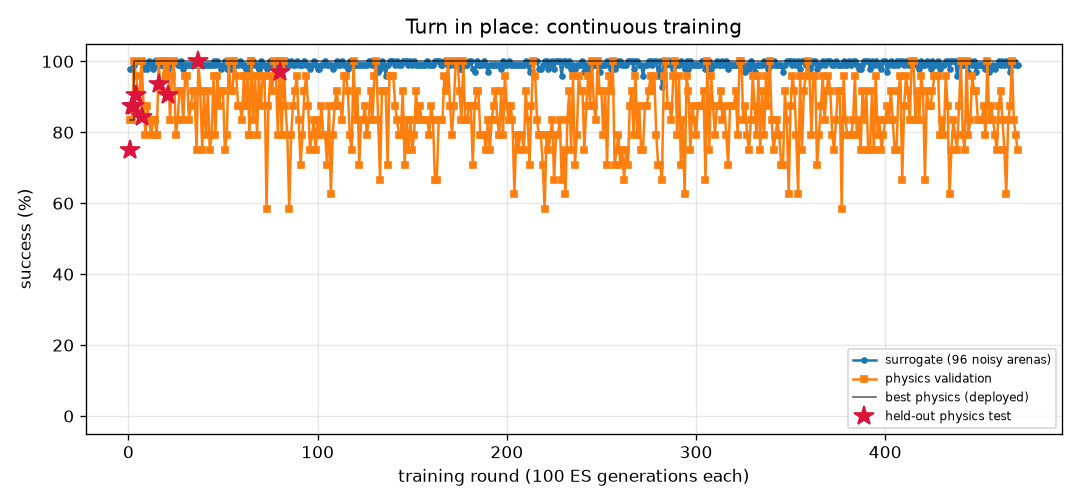
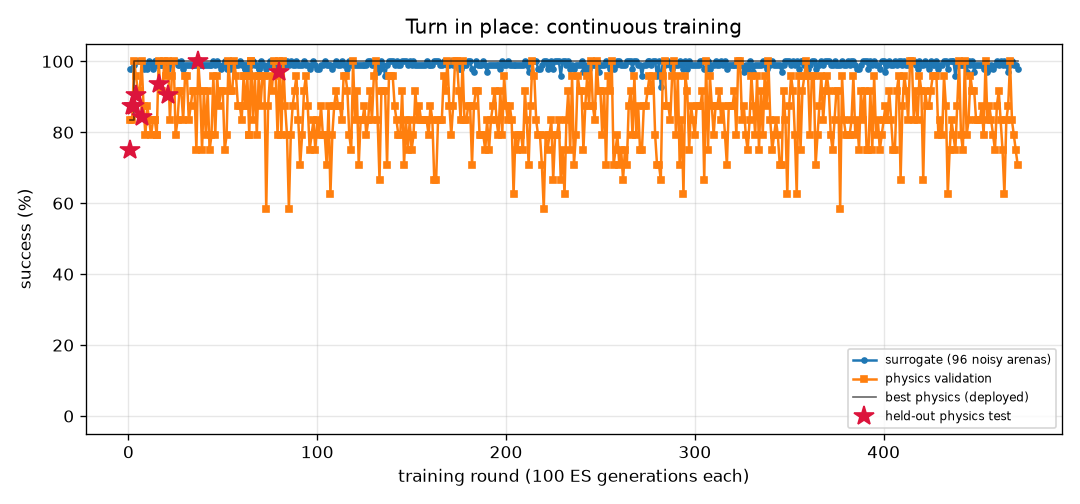
FlyLab: continuous training progress
- walk_forward: optimal, physics val 100% of 24, round 98
- turn: optimal, physics val 100% of 24, round 471
- goto: optimal, physics val 100% of 24, round 95
- odor_seek: optimal, physics val 100% of 24, round 94
- odor_avoid: optimal, physics val 100% of 24, round 501
- light_seek: optimal, physics val 100% of 24, round 283
- light_avoid: optimal, physics val 100% of 24, round 239

diff --git a/projects/09_flylab/training/odor_avoid/REPORT.md b/projects/09_flylab/training/odor_avoid/REPORT.md
@@ -1,14 +1,14 @@
 # Escape a bad smell (`odor_avoid`) — training report
 
-*Auto-generated by `train_brains.py`, last updated 2026-10-16T22:15:40.*
+*Auto-generated by `train_brains.py`, last updated 2026-10-17T10:02:42.*
 
 ![curve](curve.png)
 
 | | |
 |---|---|
-| rounds | 492 |
-| ES generations | 49200 |
-| physics runs | 9114 |
+| rounds | 501 |
+| ES generations | 50100 |
+| physics runs | 9330 |
 | status | **optimal** |
 | best brain | round 373: physics validation **100%** on 24 arenas, surrogate 97% |
 | held-out physics test | **97%** on 32 unseen arenas (95% CI 84%-99%) (errors: [62.0, 57.4, 62.6, 61.9, 59.0, 61.6, 56.5, 60.7, 31.7, 60.9, 63.1, 57.1, 61.1, 62.1, 61.5, 60.2, 62.2, 55.2, 62.1, 54.2, 61.3, 62.0, 58.0, 61.9, 59.8, 56.5, 56.3, 56.4, 56.3, 57.7, 61.9, 32.4]) |
@@ -17,15 +17,6 @@ Physics error per arena: mm gained away from source (> 6 without first approachi
 
 | round | level | gens | sigma | surrogate | physics val | val errors | test | note |
 |---:|---:|---:|---:|---:|---:|---|---:|---|
-| 453 | 3 | 45300 | 0.028 | 93% | 96% | [63.4, 60.4, 58.4, 57.9, 60.6, 62.2, 61.4, 58.0, 60.4, 57.7, 58.7, 59.7, 50.8, 57.6, 40.3, 62.1, 60.5, 61.8, 54.8, 57.5, 59.9, 59.0, 57.6, 61.7] |  | restart from best |
-| 454 | 3 | 45400 | 0.026 | 97% | 96% | [64.0, 61.2, 56.3, 58.7, 62.2, 62.7, 62.9, 60.5, 60.9, 61.9, 62.2, 62.1, 55.0, 56.3, 38.5, 62.0, 62.3, 61.9, 56.0, 57.5, 62.5, 62.2, 56.7, 60.7] |  |  |
-| 455 | 3 | 45500 | 0.026 | 98% | 96% | [62.9, 60.6, 56.2, 58.8, 61.8, 61.1, 61.4, 32.2, 60.8, 45.0, 61.7, 62.2, 55.0, 55.8, 46.2, 62.2, 62.1, 39.5, 55.1, 60.4, 61.8, 36.3, 58.5, 45.2] |  |  |
-| 456 | 3 | 45600 | 0.025 | 96% | 100% | [62.2, 60.1, 56.7, 60.6, 62.0, 60.1, 61.6, 54.4, 62.0, 37.0, 61.1, 61.9, 55.0, 56.5, 50.4, 62.5, 62.1, 62.2, 55.4, 56.8, 62.3, 62.2, 60.7, 61.8] |  |  |
-| 457 | 3 | 45700 | 0.026 | 93% | 100% | [60.8, 59.3, 52.1, 58.4, 60.1, 60.8, 61.0, 59.1, 61.4, 59.3, 55.1, 59.1, 24.3, 49.3, 40.9, 56.9, 37.9, 55.6, 44.1, 59.1, 54.9, 60.5, 58.7, 59.2] |  | restart from best |
-| 458 | 3 | 45800 | 0.026 | 95% | 100% | [61.6, 60.3, 56.8, 60.7, 61.6, 60.4, 60.5, 59.8, 61.6, 52.8, 60.5, 61.3, 54.6, 57.6, 50.6, 61.5, 61.6, 61.7, 54.9, 60.0, 61.9, 61.5, 56.9, 61.9] |  |  |
-| 459 | 3 | 45900 | 0.027 | 97% | 100% | [63.2, 61.4, 57.9, 61.7, 61.6, 60.8, 62.0, 53.1, 60.7, 61.1, 62.4, 62.1, 54.8, 55.8, 42.5, 61.8, 62.2, 62.5, 55.1, 60.1, 62.0, 60.0, 61.5, 59.5] |  |  |
-| 460 | 3 | 46000 | 0.026 | 96% | 100% | [62.5, 61.1, 56.2, 57.1, 62.4, 62.2, 61.5, 54.2, 62.2, 52.5, 57.8, 61.4, 51.1, 55.0, 39.3, 60.9, 62.2, 61.5, 54.7, 59.6, 61.8, 62.1, 61.4, 56.7] |  |  |
-| 461 | 3 | 46100 | 0.026 | 95% | 96% | [62.2, 60.1, 56.0, 61.3, 62.5, 61.7, 61.8, 60.8, 62.2, 61.7, 61.9, 62.5, 55.0, 56.0, 48.9, 63.0, 62.5, 62.8, 55.5, 56.6, 62.5, 61.6, 60.4, 62.5] |  | restart from best |
 | 462 | 3 | 46200 | 0.026 | 95% | 100% | [60.6, 56.2, 57.7, 59.7, 61.9, 59.6, 60.5, 39.5, 61.0, 61.1, 60.1, 61.2, 54.4, 57.9, 48.0, 61.0, 61.9, 61.7, 54.2, 55.9, 60.6, 60.8, 58.3, 38.7] |  |  |
 | 463 | 3 | 46300 | 0.027 | 94% | 100% | [60.4, 53.3, 55.8, 53.7, 59.2, 59.5, 60.1, 56.7, 60.1, 59.7, 56.5, 60.6, 49.2, 53.2, 29.4, 56.1, 60.8, 58.4, 48.9, 52.4, 61.0, 58.4, 57.8, 57.1] |  |  |
 | 464 | 3 | 46400 | 0.028 | 97% | 92% | [60.3, 59.0, 55.9, 59.6, 60.7, 62.1, 61.1, 39.1, 60.9, 61.5, 60.2, 61.0, 50.5, 56.0, 44.0, 61.9, 61.5, 62.1, 54.6, 57.9, 61.3, 60.4, 56.8, 60.4] |  |  |
@@ -57,3 +48,12 @@ Physics error per arena: mm gained away from source (> 6 without first approachi
 | 490 | 3 | 49000 | 0.026 | 97% | 96% | [62.6, 60.5, 56.2, 61.0, 61.6, 61.0, 61.7, 25.3, 59.8, 58.3, 62.1, 62.1, 54.5, 57.3, 41.9, 62.2, 62.0, 60.3, 55.4, 55.6, 61.4, 60.2, 58.3, 59.7] |  |  |
 | 491 | 3 | 49100 | 0.026 | 95% | 100% | [63.6, 57.8, 56.4, 61.4, 62.7, 62.1, 62.5, 48.8, 60.2, 60.7, 61.9, 62.3, 51.5, 56.2, 42.9, 61.4, 62.4, 61.0, 55.5, 57.9, 62.1, 59.9, 56.2, 58.4] |  |  |
 | 492 | 3 | 49200 | 0.027 | 96% | 96% | [63.2, 58.8, 56.3, 61.5, 61.7, 62.1, 61.6, 58.5, 60.7, 55.6, 47.1, 62.0, 51.2, 55.5, 41.2, 60.5, 62.4, 61.5, 55.2, 55.2, 62.5, 58.5, 58.9, 58.3] |  |  |
+| 493 | 3 | 49300 | 0.026 | 94% | 96% | [63.5, 55.8, 56.1, 56.5, 60.9, 60.8, 60.6, 58.0, 60.9, 59.8, 55.6, 61.2, 51.1, 57.2, 41.9, 60.6, 61.7, 61.9, 55.3, 58.4, 61.4, 53.9, 61.9, 53.1] |  | restart from best |
+| 494 | 3 | 49400 | 0.026 | 98% | 96% | [62.7, 60.3, 56.3, 60.8, 62.3, 41.5, 62.2, 40.2, 62.0, 39.1, 38.2, 61.9, 51.6, 56.7, 39.0, 61.9, 62.2, 61.3, 54.5, 56.7, 62.2, 46.4, 60.0, 36.2] |  |  |
+| 495 | 3 | 49500 | 0.025 | 95% | 96% | [63.1, 61.2, 56.6, 56.8, 62.2, 61.1, 60.5, 10.1, 60.9, 41.9, 60.2, 62.4, 51.3, 55.4, 10.7, 61.9, 61.9, 62.1, 54.2, 59.7, 61.9, 38.1, 59.6, 56.2] |  |  |
+| 496 | 3 | 49600 | 0.027 | 99% | 96% | [62.5, 59.2, 56.6, 60.0, 62.4, 62.3, 62.5, 57.0, 60.7, 61.6, 62.2, 61.9, 54.4, 56.5, 39.8, 61.5, 62.3, 61.3, 54.7, 56.7, 61.8, 61.7, 60.0, 48.8] |  |  |
+| 497 | 3 | 49700 | 0.025 | 94% | 96% | [61.4, 60.1, 56.6, 60.8, 61.0, 62.1, 62.0, 49.8, 61.9, 45.0, 60.1, 62.0, 50.8, 56.4, 44.5, 61.2, 61.7, 61.7, 54.0, 56.1, 61.5, 38.7, 59.4, 48.9] |  | restart from best |
+| 498 | 3 | 49800 | 0.026 | 95% | 100% | [63.0, 58.6, 55.9, 61.6, 61.1, 42.6, 61.1, 15.3, 61.4, 42.5, 58.3, 61.7, 51.3, 55.5, 39.1, 60.9, 62.4, 56.3, 51.1, 57.1, 62.0, 34.0, 59.4, 46.1] |  |  |
+| 499 | 3 | 49900 | 0.027 | 94% | 100% | [63.0, 61.3, 56.3, 59.5, 62.9, 62.5, 62.1, 61.9, 61.0, 60.0, 62.2, 62.5, 55.1, 56.5, 52.0, 61.8, 62.1, 61.8, 55.5, 57.9, 62.6, 62.5, 59.7, 62.5] |  |  |
+| 500 | 3 | 50000 | 0.028 | 96% | 100% | [62.6, 57.1, 56.0, 57.8, 62.2, 59.7, 58.1, 33.0, 60.7, 42.9, 61.4, 62.4, 51.8, 56.1, 38.9, 62.1, 62.0, 61.7, 55.5, 56.5, 61.5, 51.2, 59.1, 51.0] |  |  |
+| 501 | 3 | 50100 | 0.026 | 96% | 96% | [60.9, 58.9, 56.1, 59.6, 62.0, 54.3, 60.5, 35.6, 60.1, 42.5, 55.5, 61.9, 52.7, 55.5, 40.7, 42.4, 61.4, 48.5, 54.1, 55.8, 61.6, 45.5, 60.1, 55.5] |  | restart from best |

diff --git a/projects/09_flylab/training/light_avoid/REPORT.md b/projects/09_flylab/training/light_avoid/REPORT.md
@@ -1,14 +1,14 @@
 # Hide from light (`light_avoid`) — training report
 
-*Auto-generated by `train_brains.py`, last updated 2026-10-16T20:57:34.*
+*Auto-generated by `train_brains.py`, last updated 2026-10-17T10:00:58.*
 
 ![curve](curve.png)
 
 | | |
 |---|---|
-| rounds | 231 |
-| ES generations | 23100 |
-| physics runs | 5816 |
+| rounds | 239 |
+| ES generations | 23900 |
+| physics runs | 6008 |
 | status | **optimal** |
 | best brain | round 159: physics validation **100%** on 24 arenas, surrogate 100% |
 | held-out physics test | **100%** on 32 unseen arenas (95% CI 89%-100%) (errors: [14.4, 56.1, 58.0, 57.9, 57.5, 14.0, 14.4, 56.6, 56.8, 13.3, 14.1, 56.6, 57.6, 13.1, 57.3, 55.9, 57.2, 55.0, 55.2, 53.9, 55.2, 12.4, 53.8, 53.7, 14.1, 13.7, 55.0, 57.8, 56.2, 13.1, 52.8, 56.5]) |
@@ -17,14 +17,6 @@ Physics error per arena: mm gained away from source (> 6 without first approachi
 
 | round | level | gens | sigma | surrogate | physics val | val errors | test | note |
 |---:|---:|---:|---:|---:|---:|---|---:|---|
-| 192 | 3 | 19200 | 0.024 | 100% | 100% | [49.3, 52.5, 52.0, 50.8, 53.2, 51.4, 50.5, 14.5, 48.0, 13.3, 51.3, 53.0, 14.4, 51.5, 52.1, 51.8, 14.2, 53.4, 52.8, 14.4, 50.1, 51.8, 50.6, 52.6] |  |  |
-| 193 | 3 | 19300 | 0.024 | 100% | 100% | [49.0, 53.1, 52.6, 49.5, 54.0, 50.5, 50.8, 14.5, 51.2, 46.9, 53.2, 54.0, 14.4, 53.0, 52.5, 48.7, 14.2, 54.3, 52.9, 14.4, 50.6, 53.4, 51.1, 53.5] |  |  |
-| 194 | 3 | 19400 | 0.024 | 100% | 100% | [52.4, 54.6, 54.5, 52.6, 51.3, 52.2, 54.3, 14.5, 34.8, 13.3, 52.6, 51.2, 14.4, 54.2, 54.7, 52.0, 14.2, 52.5, 54.6, 14.4, 51.8, 52.0, 53.8, 50.2] |  |  |
-| 195 | 3 | 19500 | 0.024 | 100% | 100% | [55.4, 60.1, 59.8, 57.5, 59.5, 56.2, 58.5, 14.5, 55.8, 13.2, 59.0, 59.3, 14.4, 59.3, 60.0, 55.5, 14.2, 60.0, 60.4, 14.4, 57.5, 59.3, 58.1, 58.7] |  | restart from best |
-| 196 | 3 | 19600 | 0.024 | 99% | 100% | [33.6, 31.4, 32.0, 31.7, 30.4, 33.7, 32.1, 14.5, 12.9, 13.3, 32.7, 29.5, 14.4, 30.3, 31.8, 33.3, 14.2, 27.8, 32.0, 14.4, 31.2, 31.9, 32.9, 28.0] |  |  |
-| 197 | 3 | 19700 | 0.025 | 100% | 100% | [53.3, 57.8, 57.2, 54.8, 59.2, 54.7, 55.1, 14.5, 44.2, 13.4, 57.9, 58.9, 14.4, 57.0, 57.7, 53.9, 14.2, 59.1, 58.0, 14.4, 51.5, 58.2, 55.2, 59.0] |  |  |
-| 198 | 3 | 19800 | 0.024 | 100% | 100% | [56.8, 61.5, 61.3, 57.1, 60.9, 57.8, 60.0, 14.5, 55.4, 13.3, 60.3, 60.7, 14.4, 58.5, 61.4, 59.5, 14.2, 61.5, 61.7, 14.4, 57.7, 59.8, 59.8, 60.1] |  |  |
-| 199 | 3 | 19900 | 0.024 | 100% | 100% | [59.1, 62.1, 61.9, 58.8, 60.8, 59.4, 60.9, 14.5, 13.1, 13.4, 55.5, 60.6, 14.4, 58.2, 62.0, 58.0, 14.2, 61.3, 62.4, 14.4, 58.9, 57.4, 60.6, 60.0] |  | restart from best |
 | 200 | 3 | 20000 | 0.024 | 100% | 100% | [37.6, 39.6, 38.5, 39.9, 41.9, 38.4, 36.3, 14.5, 36.9, 13.2, 40.7, 41.8, 14.4, 40.5, 38.6, 39.8, 14.2, 41.6, 39.5, 14.4, 38.9, 40.4, 36.1, 42.5] |  |  |
 | 201 | 3 | 20100 | 0.024 | 100% | 100% | [37.4, 37.4, 36.9, 37.7, 41.2, 37.4, 34.5, 14.5, 39.6, 13.3, 39.6, 41.4, 14.4, 38.4, 37.3, 37.0, 14.2, 40.7, 37.1, 14.4, 38.9, 39.0, 34.0, 41.4] |  |  |
 | 202 | 3 | 20200 | 0.024 | 100% | 100% | [57.1, 61.8, 61.6, 58.2, 61.8, 57.9, 60.2, 14.5, 58.3, 13.2, 60.7, 61.7, 14.4, 61.2, 61.8, 57.4, 14.2, 62.3, 62.1, 14.4, 54.9, 60.7, 60.0, 61.2] |  |  |
@@ -57,3 +49,11 @@ Physics error per arena: mm gained away from source (> 6 without first approachi
 | 229 | 3 | 22900 | 0.024 | 100% | 100% | [55.5, 60.6, 60.2, 56.1, 61.0, 56.6, 58.7, 14.5, 57.2, 13.4, 60.0, 60.9, 14.4, 58.9, 60.4, 54.8, 14.2, 61.3, 60.9, 14.4, 56.0, 59.9, 58.7, 60.4] |  |  |
 | 230 | 3 | 23000 | 0.024 | 98% | 100% | [35.4, 38.8, 37.2, 36.5, 43.0, 38.5, 34.7, 14.5, 34.0, 12.8, 39.1, 43.1, 14.4, 38.6, 37.2, 32.8, 14.2, 39.9, 38.0, 14.4, 7.4, 39.4, 34.0, 41.1] |  |  |
 | 231 | 3 | 23100 | 0.025 | 94% | 100% | [6.0, 54.5, 54.2, 7.4, 56.6, 8.1, 52.2, 14.5, 53.2, 13.5, 56.6, 57.0, 14.4, 55.6, 54.4, 9.1, 14.2, 57.0, 54.9, 14.4, 8.7, 56.9, 51.8, 56.7] |  | restart from best |
+| 232 | 3 | 23200 | 0.024 | 100% | 100% | [49.3, 52.0, 51.4, 51.4, 54.4, 50.1, 48.9, 14.5, 53.0, 13.0, 55.7, 54.7, 14.3, 53.7, 51.2, 50.0, 14.2, 54.4, 51.7, 14.4, 49.2, 55.1, 49.5, 54.7] |  |  |
+| 233 | 3 | 23300 | 0.024 | 100% | 100% | [35.0, 34.2, 33.9, 36.1, 39.9, 34.4, 32.3, 14.5, 35.3, 13.5, 37.5, 38.6, 14.4, 38.9, 33.4, 39.5, 14.2, 37.1, 35.3, 14.4, 36.0, 39.8, 32.2, 37.3] |  |  |
+| 234 | 3 | 23400 | 0.024 | 100% | 100% | [55.9, 60.8, 60.6, 57.5, 61.3, 56.8, 58.7, 14.5, 55.4, 13.5, 59.9, 61.3, 14.4, 58.5, 60.7, 55.8, 14.2, 61.7, 61.1, 14.4, 57.8, 60.2, 59.0, 60.8] |  |  |
+| 235 | 3 | 23500 | 0.024 | 100% | 100% | [49.3, 50.8, 50.2, 50.9, 54.7, 48.9, 47.8, 14.5, 46.3, 13.5, 53.5, 54.7, 14.4, 53.4, 50.2, 49.8, 14.2, 53.7, 51.0, 14.4, 48.3, 53.3, 48.7, 54.8] |  | restart from best |
+| 236 | 3 | 23600 | 0.024 | 100% | 100% | [48.5, 50.6, 49.9, 49.4, 53.0, 49.1, 47.7, 14.5, 49.4, 13.4, 52.5, 52.9, 14.4, 52.2, 50.2, 48.6, 14.2, 52.8, 50.5, 14.4, 47.4, 52.5, 48.6, 52.8] |  |  |
+| 237 | 3 | 23700 | 0.024 | 99% | 100% | [56.8, 59.2, 59.1, 56.9, 57.3, 57.1, 58.0, 14.5, 12.8, 13.4, 55.3, 57.0, 14.4, 57.8, 58.9, 56.2, 14.2, 58.4, 59.2, 14.4, 55.3, 57.5, 57.7, 55.9] |  |  |
+| 238 | 3 | 23800 | 0.025 | 100% | 100% | [57.3, 60.2, 60.0, 57.6, 57.9, 56.6, 59.0, 14.5, 47.3, 13.4, 58.8, 58.0, 14.4, 58.6, 59.9, 57.4, 14.2, 59.0, 60.1, 14.4, 55.8, 58.9, 58.9, 57.0] |  |  |
+| 239 | 3 | 23900 | 0.024 | 100% | 100% | [58.7, 61.7, 61.5, 58.5, 59.9, 58.6, 60.7, 14.5, 12.7, 13.4, 59.8, 59.6, 14.4, 56.9, 61.7, 57.2, 14.2, 60.7, 61.4, 14.4, 57.3, 59.9, 60.4, 58.2] |  | restart from best |

diff --git a/projects/09_flylab/training/turn/REPORT.md b/projects/09_flylab/training/turn/REPORT.md
@@ -1,14 +1,14 @@
 # Turn in place (`turn`) — training report
 
-*Auto-generated by `train_brains.py`, last updated 2026-10-17T09:02:34.*
+*Auto-generated by `train_brains.py`, last updated 2026-10-17T09:07:49.*
 
 ![curve](curve.png)
 
 | | |
 |---|---|
-| rounds | 470 |
-| ES generations | 47000 |
-| physics runs | 11526 |
+| rounds | 471 |
+| ES generations | 47100 |
+| physics runs | 11550 |
 | status | **optimal** |
 | best brain | round 80: physics validation **100%** on 24 arenas, surrogate 100% |
 | held-out physics test | **97%** on 32 unseen arenas (95% CI 84%-99%) (errors: [1.6, 3.3, 6.3, 3.7, 1.1, 0.4, 2.4, 2.9, 0.1, 2.6, 0.5, 2.7, 1.5, 3.1, 4.5, 0.2, 0.5, 1.1, 2.0, 4.4, 2.8, 3.2, 0.3, 2.2, 0.5, 3.0, 0.3, 5.4, 0.4, 1.0, 4.7, 10.7]) |
@@ -17,7 +17,6 @@ Physics error per arena: deg from target heading (< 20 = success).
 
 | round | level | gens | sigma | surrogate | physics val | val errors | test | note |
 |---:|---:|---:|---:|---:|---:|---|---:|---|
-| 431 | 3 | 43100 | 0.025 | 99% | 79% | [6.8, 4.2, 2.5, 1.4, 1.9, 0.5, 5.9, 1.1, 8.3, 0.8, 5.9, 0.5, 1.9, 1.5, 5.6, 1.6, 0.0, 1.2, 1.7, 1.8, 5.1, 1.2, 4.3, 4.8] |  |  |
 | 432 | 3 | 43200 | 0.025 | 100% | 96% | [9.2, 12.1, 0.5, 5.7, 3.6, 2.7, 2.0, 4.7, 1.4, 3.0, 0.8, 5.2, 2.0, 3.5, 1.3, 3.6, 4.3, 1.0, 2.1, 1.3, 7.0, 3.1, 1.6, 0.3] |  | restart from best |
 | 433 | 3 | 43300 | 0.024 | 100% | 88% | [7.8, 9.1, 3.4, 2.4, 0.3, 0.7, 2.4, 0.2, 1.2, 1.3, 2.1, 1.7, 3.0, 3.0, 0.6, 2.9, 2.1, 0.5, 2.7, 1.4, 4.2, 1.0, 2.8, 0.1] |  |  |
 | 434 | 3 | 43400 | 0.024 | 98% | 62% | [4.1, 0.1, 5.9, 1.8, 7.5, 3.4, 6.5, 10.3, 7.7, 0.6, 6.3, 1.4, 2.8, 2.0, 4.9, 0.9, 1.8, 2.9, 0.9, 0.8, 5.9, 5.9, 5.3, 6.5] |  |  |
@@ -57,3 +56,4 @@ Physics error per arena: deg from target heading (< 20 = success).
 | 468 | 3 | 46800 | 0.025 | 100% | 83% | [6.0, 4.6, 8.7, 1.2, 3.0, 1.5, 4.6, 8.4, 4.4, 0.7, 4.6, 1.0, 1.1, 4.3, 3.9, 0.7, 1.4, 1.9, 0.7, 0.3, 7.9, 0.6, 3.5, 2.1] |  | restart from best |
 | 469 | 3 | 46900 | 0.024 | 99% | 79% | [6.6, 5.5, 1.7, 4.7, 3.0, 0.1, 4.7, 1.6, 5.0, 0.9, 4.5, 2.2, 1.8, 5.0, 2.9, 1.4, 0.3, 2.0, 0.8, 1.5, 6.4, 0.1, 3.4, 1.0] |  |  |
 | 470 | 3 | 47000 | 0.025 | 99% | 75% | [1.9, 3.8, 1.3, 1.7, 12.9, 0.8, 6.1, 10.0, 5.6, 0.5, 4.4, 2.4, 2.3, 0.8, 3.2, 3.0, 2.6, 4.1, 1.8, 2.2, 4.1, 2.6, 5.6, 7.0] |  |  |
+| 471 | 3 | 47100 | 0.025 | 98% | 71% | [7.6, 6.4, 0.4, 1.4, 2.6, 2.2, 3.5, 1.3, 5.1, 1.1, 4.0, 1.7, 1.7, 2.5, 3.4, 0.5, 0.9, 2.1, 0.3, 0.0, 6.0, 0.4, 4.1, 6.4] |  |  |

diff --git a/projects/09_flylab/training/TRAINING.md b/projects/09_flylab/training/TRAINING.md
@@ -1,15 +1,15 @@
 # FlyLab brains — continuous training log
 
-*Auto-generated by `train_brains.py`, last updated 2026-10-17T09:02:48.*
+*Auto-generated by `train_brains.py`, last updated 2026-10-17T10:02:42.*
 
 Every skill has its own brain and its own training process: surrogate ES rounds, physics validation in MuJoCo, keep-the-best selection, and a held-out physics test that is never used for selection. See each skill's report for its full round-by-round history. Mastery is progressive: passing a level (100% physics validation, >=95% surrogate) doubles the validation and test arena sets; a brain is **optimal** once it holds up at level 3 (>=95% of 24 validation arenas) AND scores >=90% on the 32 held-out test arenas. Test columns show 95% Wilson confidence intervals.
 
 | skill | rounds | ES generations | physics runs | surrogate | physics val | **physics test** | status |
 |---|---:|---:|---:|---:|---:|---:|---|
 | [Walk forward](walk_forward/REPORT.md) | 98 | 9800 | 2302 | 100% | 100% of 24 | 100% of 32 (CI 89-100%) | **optimal** |
-| [Turn in place](turn/REPORT.md) | 470 | 47000 | 11526 | 100% | 100% of 24 | 97% of 32 (CI 84-99%) | **optimal** |
+| [Turn in place](turn/REPORT.md) | 471 | 47100 | 11550 | 100% | 100% of 24 | 97% of 32 (CI 84-99%) | **optimal** |
 | [Go to a location](goto/REPORT.md) | 95 | 9500 | 2166 | 100% | 100% of 24 | 100% of 32 (CI 89-100%) | **optimal** |
 | [Find food by smell](odor_seek/REPORT.md) | 94 | 9400 | 1590 | 100% | 100% of 24 | 100% of 32 (CI 89-100%) | **optimal** |
-| [Escape a bad smell](odor_avoid/REPORT.md) | 492 | 49200 | 9114 | 97% | 100% of 24 | 97% of 32 (CI 84-99%) | **optimal** |
+| [Escape a bad smell](odor_avoid/REPORT.md) | 501 | 50100 | 9330 | 97% | 100% of 24 | 97% of 32 (CI 84-99%) | **optimal** |
 | [Walk toward light](light_seek/REPORT.md) | 283 | 28300 | 3576 | 100% | 100% of 24 | 100% of 32 (CI 89-100%) | **optimal** |
-| [Hide from light](light_avoid/REPORT.md) | 231 | 23100 | 5816 | 100% | 100% of 24 | 100% of 32 (CI 89-100%) | **optimal** |
+| [Hide from light](light_avoid/REPORT.md) | 239 | 23900 | 6008 | 100% | 100% of 24 | 100% of 32 (CI 89-100%) | **optimal** |
